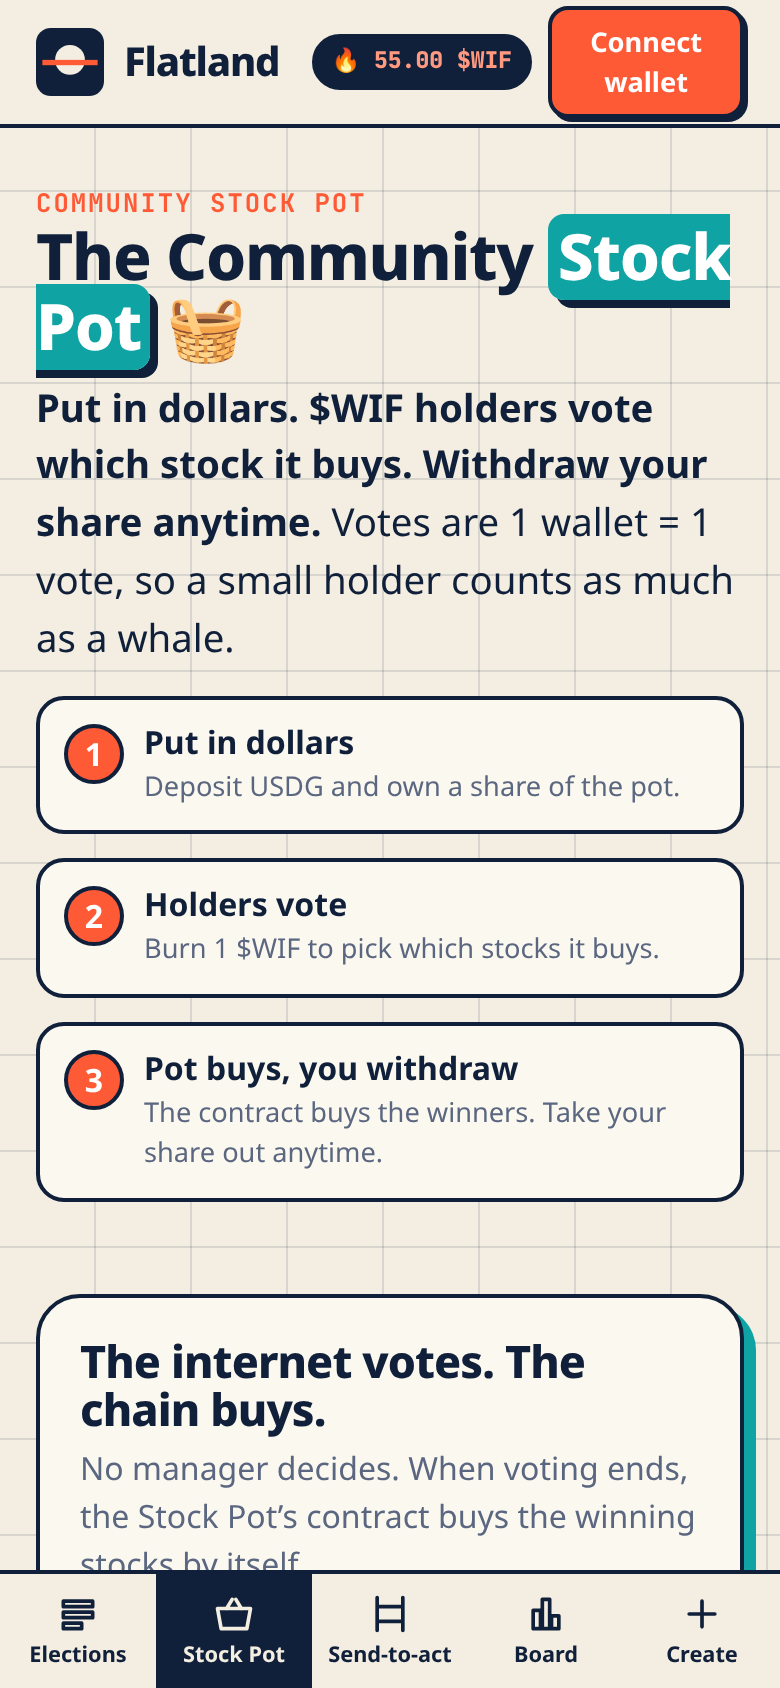
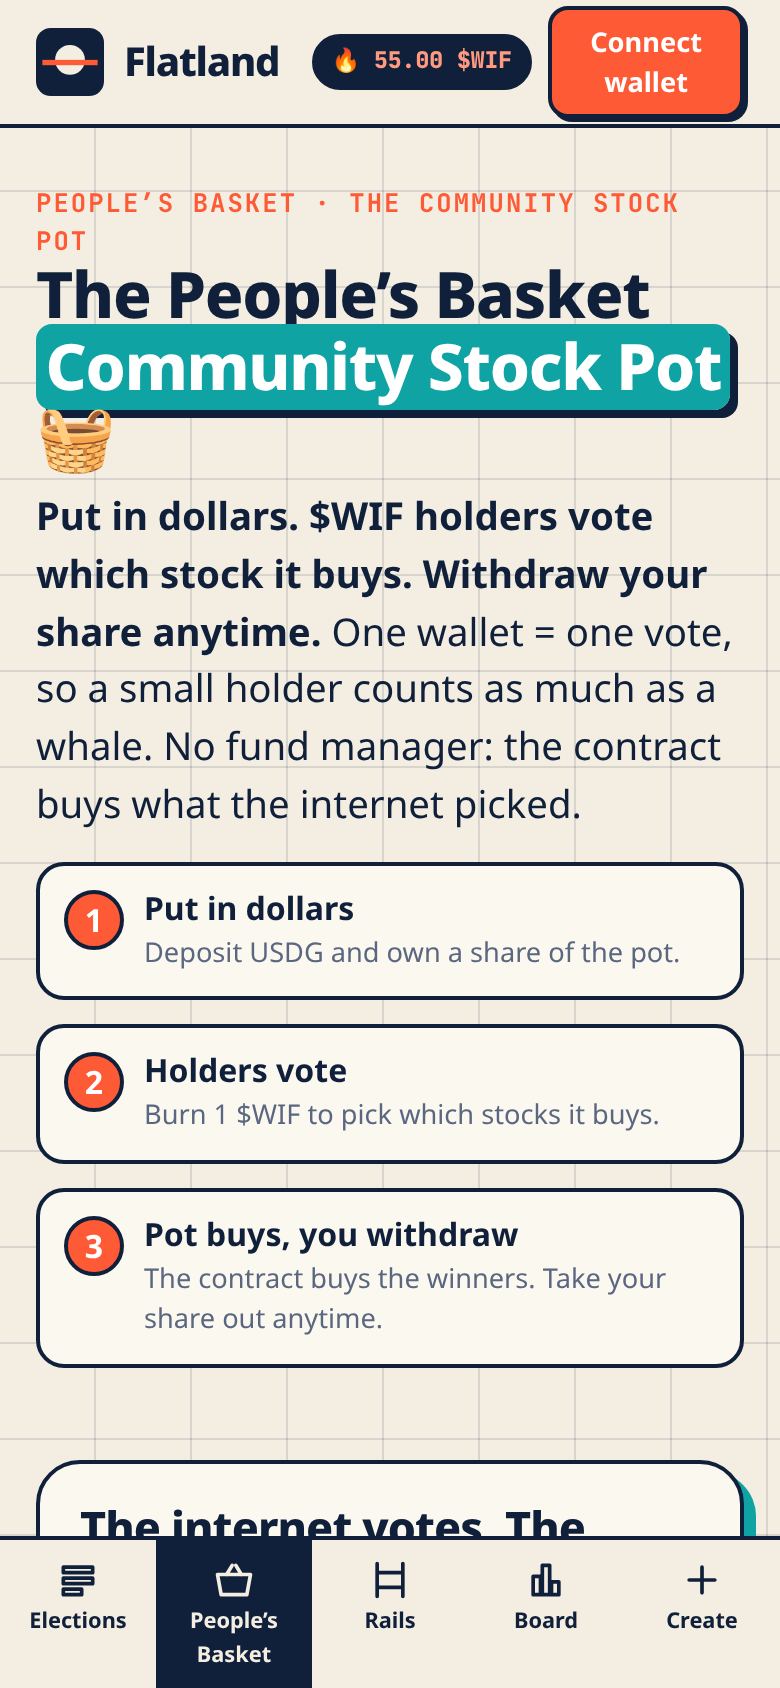
Copy only: keep People's Basket / Rails names, bigger value copy

Changed region(s): [[0.0308, 0.0924, 0.9846, 0.9858]]

diff --git a/apps/web/src/pages/Home.tsx b/apps/web/src/pages/Home.tsx
@@ -21,7 +21,7 @@ export function Home() {
         <div className="row" style={{ marginTop: 18 }}>
           <a className="btn" href="#/elections">Vote now</a>
           <a className="btn ghost" href="#/create">Start an election</a>
-          <a className="btn ghost" href="#/basket">Community Stock Pot 🧺</a>
+          <a className="btn ghost" href="#/basket">People’s Basket 🧺</a>
         </div>
       </section>
       <BurnHero />
@@ -45,8 +45,8 @@ export function Home() {
       <h2 style={{ marginTop: 40 }}>Three things, one flat rule</h2>
       <div className="grid g3">
         <div className="card"><h3>① Elections for everyone</h3><p>Anyone creates an election: options, deadline, vote cost (≥1 $WIF), optional prize pool. 1 wallet = 1 vote. A verifiable future-block draw rewards voters. Vote with your wallet <i>or</i> just send 1 $WIF to an option’s address from any wallet app.</p><a href="#/create"><b>Create →</b></a></div>
-        <div className="card"><h3>② Community Stock Pot</h3><p>Put in dollars. $WIF holders vote which stock it buys, 1 wallet = 1 vote. The contract buys the winners by itself, and you can withdraw your share anytime.</p><a href="#/basket"><b>See the Stock Pot →</b></a></div>
-        <div className="card"><h3>③ Send-to-act links</h3><p>Send 1 $WIF to an address from any wallet to vote, RSVP, sign or join. No website needed, and each one burns $WIF.</p><a href="#/rails"><b>Browse the links →</b></a></div>
+        <div className="card"><h3>② People’s Basket — the community stock pot</h3><p>Put in dollars. $WIF holders vote which stock it buys, 1 wallet = 1 vote. The contract buys the winners by itself, and you can withdraw your share anytime.</p><a href="#/basket"><b>See the Stock Pot →</b></a></div>
+        <div className="card"><h3>③ Rails — send-to-act links</h3><p>Send 1 $WIF to an address from any wallet to vote, RSVP, sign or join. No website needed, and each one burns $WIF.</p><a href="#/rails"><b>Browse the links →</b></a></div>
       </div>
 
       <h2 style={{ marginTop: 40 }}>The flywheel</h2>

diff --git a/apps/web/src/pages/Basket.tsx b/apps/web/src/pages/Basket.tsx
@@ -54,9 +54,9 @@ export function Basket() {
   return (
     <>
       <div className="hero" style={{ paddingTop: 6 }}>
-        <div className="kicker">Community Stock Pot</div>
-        <h1 style={{ fontSize: 'clamp(2rem, 6vw, 3.4rem)' }}>The Community <em style={{ fontStyle: 'normal', background: 'var(--teal)', color: '#fff', padding: '0 .15em', borderRadius: 8, boxShadow: '4px 4px 0 var(--ink)' }}>Stock Pot</em> 🧺</h1>
-        <p className="lead"><b>Put in dollars. $WIF holders vote which stock it buys. Withdraw your share anytime.</b> Votes are 1 wallet = 1 vote, so a small holder counts as much as a whale.</p>
+        <div className="kicker">People’s Basket · the community stock pot</div>
+        <h1 style={{ fontSize: 'clamp(2rem, 6vw, 3.4rem)' }}>The People’s Basket <em style={{ fontStyle: 'normal', background: 'var(--teal)', color: '#fff', padding: '0 .15em', borderRadius: 8, boxShadow: '4px 4px 0 var(--ink)' }}>Community Stock Pot</em> 🧺</h1>
+        <p className="lead"><b>Put in dollars. $WIF holders vote which stock it buys. Withdraw your share anytime.</b> One wallet = one vote, so a small holder counts as much as a whale. No fund manager: the contract buys what the internet picked.</p>
         <Steps items={[['Put in dollars', 'Deposit USDG and own a share of the pot.'], ['Holders vote', 'Burn 1 $WIF to pick which stocks it buys.'], ['Pot buys, you withdraw', 'The contract buys the winners. Take your share out anytime.']]} />
       </div>
       <BasketShowcase />

diff --git a/apps/web/src/pages/Rails.tsx b/apps/web/src/pages/Rails.tsx
@@ -17,8 +17,8 @@ export function Rails({ focus }: { focus?: number }) {
   const gates = [...(snap?.gates ?? [])].reverse();
   return (
     <>
-      <div className="row between"><h2>Send-to-act links</h2><button className="btn" onClick={() => setShow(!show)}>{show ? 'Close' : '+ New link'}</button></div>
-      <p className="lead" style={{ maxWidth: 680 }}><b>Send 1 $WIF to an address from any wallet to vote, RSVP, sign or join. No website needed.</b></p>
+      <div className="row between"><h2>Rails — send-to-act links</h2><button className="btn" onClick={() => setShow(!show)}>{show ? 'Close' : '+ New link'}</button></div>
+      <p className="lead" style={{ maxWidth: 680 }}><b>Send 1 $WIF to an address from any wallet to vote, RSVP, sign or join. No website, no sign-up, no gas games.</b> It’s recorded on-chain, one per wallet, and can’t be faked.</p>
       <Steps items={[['Pick a link', 'Petition, RSVP, list or access pass.'], ['Send 1 $WIF', 'From any wallet app to the address on the card.'], ['You’re counted', 'It’s recorded on-chain and burns your $WIF. One per wallet.']]} />
       <p className="small muted" style={{ maxWidth: 680 }}>For developers: apps can read <code>hasActed(gateId, wallet)</code> or embed the <a href="#/build">widget</a>.</p>
       {show ? <NewGate onDone={() => setShow(false)} /> : null}

diff --git a/apps/web/src/App.tsx b/apps/web/src/App.tsx
@@ -16,8 +16,8 @@ import { Score } from './pages/Score';
 
 const NAV = [
   ['elections', 'Elections', 'M4 5h16v3H4zM4 11h16v3H4zM4 17h10v3H4z'],
-  ['basket', 'Stock Pot', 'M3 9h18l-2 11H5zM8 9l3-5M16 9l-3-5'],
-  ['rails', 'Send-to-act', 'M5 3v18M19 3v18M5 8h14M5 16h14'],
+  ['basket', 'People’s Basket', 'M3 9h18l-2 11H5zM8 9l3-5M16 9l-3-5'],
+  ['rails', 'Rails', 'M5 3v18M19 3v18M5 8h14M5 16h14'],
   ['leaderboard', 'Board', 'M5 20V10h4v10zM10 20V4h4v16zM15 20v-7h4v7z'],
   ['create', 'Create', 'M12 5v14M5 12h14'],
 ] as const;
